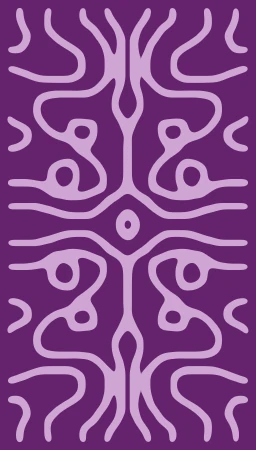
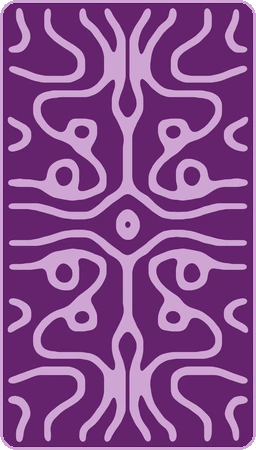
Dos de carte : filet pâle et coins arrondis, dans les deux apps
Le dos redessiné reçoit un filet de la teinte la plus pâle du motif (1 % de
la largeur) qui suit un arrondi de 6,2 %, le reste des coins étant
transparent. Le JPEG ne portant pas d'alpha, dos.jpg devient dos.png :
URL_DOS, les replis onerror de l'album et le README suivent. Le Tarot prend
le même fichier et cesse de rogner le dos en CSS, qui a désormais ses
propres coins.

diff --git a/tarot/templates/album.html b/tarot/templates/album.html
@@ -361,7 +361,7 @@ main{max-width:1180px; margin:0 auto; padding:8px 22px 80px}
         <span class="vignette">
           <span class="etq">{{ c.etiquette }}</span>
           <img loading="lazy" src="{{ c.mini }}?v={{ vstat }}" alt="{{ c.nom }}"
-               onerror="this.onerror=null;this.src='/static/cartes/dos.jpg'">
+               onerror="this.onerror=null;this.src='/static/cartes/dos.png'">
         </span>
         {% else %}
         <span class="vignette venue">
@@ -505,7 +505,7 @@ function afficher(id){
   feuille.classList.toggle("message", message);
   if(c.image){
     mImage.innerHTML = '<img src="' + echappe(c.image) + '?v=' + echappe(VSTAT) + '" alt="' + echappe(c.nom) + '"'
-      + ' onerror="this.onerror=null;this.src=\'/static/cartes/dos.jpg\'">';
+      + ' onerror="this.onerror=null;this.src=\'/static/cartes/dos.png\'">';
   } else if(message){
     mImage.innerHTML = "";
   } else {

diff --git a/templates/album.html b/templates/album.html
@@ -359,7 +359,7 @@ main{max-width:1180px; margin:0 auto; padding:8px 22px 80px}
         <span class="vignette">
           <span class="etq">{{ c.etiquette }}</span>
           <img loading="lazy" src="{{ c.mini }}?v={{ vstat }}" alt="{{ c.nom }}"
-               onerror="this.onerror=null;this.src='/static/cartes/dos.jpg'">
+               onerror="this.onerror=null;this.src='/static/cartes/dos.png'">
         </span>
         {% else %}
         <span class="vignette venue">
@@ -503,7 +503,7 @@ function afficher(id){
   feuille.classList.toggle("message", message);
   if(c.image){
     mImage.innerHTML = '<img src="' + echappe(c.image) + '?v=' + echappe(VSTAT) + '" alt="' + echappe(c.nom) + '"'
-      + ' onerror="this.onerror=null;this.src=\'/static/cartes/dos.jpg\'">';
+      + ' onerror="this.onerror=null;this.src=\'/static/cartes/dos.png\'">';
   } else if(message){
     mImage.innerHTML = "";
   } else {

diff --git a/tarot/static/css/app.css b/tarot/static/css/app.css
@@ -171,6 +171,12 @@ body {
   border-radius: 0;
 }
 
+/* Le dos est un PNG : ses coins arrondis sont déjà dans l'image. On ne le rogne
+   donc pas — sinon le rayon du CSS coupe le vrai bord de la carte. */
+.carte .dos {
+  border-radius: 0;
+}
+
 .carte .dos img,
 .carte .face img {
   width: 100%;

diff --git a/tarot/templates/index.html b/tarot/templates/index.html
@@ -4,7 +4,7 @@
 <meta charset="utf-8">
 <meta name="viewport" content="width=device-width, initial-scale=1">
 <title>Tarot — le tirage</title>
-<link rel="stylesheet" href="css/app.css?v=31">
+<link rel="stylesheet" href="css/app.css?v=32">
 </head>
 <body{% if embed %} class="embed"{% endif %}>
 

diff --git a/moteur/tarot.py b/moteur/tarot.py
@@ -351,7 +351,7 @@ def choisir_personnelle(candidats, vus):
 # correspondance calculée. La voie légitime — les décanats Golden Dawn — est un
 # chantier à part (voir CONCEPTION_MESSAGE_DU_JOUR.md / PROPOSITION.md).
 # ─────────────────────────────────────────────────────────────────────
-URL_DOS = "/static/cartes/dos.jpg"
+URL_DOS = "/static/cartes/dos.png"
 
 
 def url_carte(numero):

diff --git a/static/cartes/mineurs/README.md b/static/cartes/mineurs/README.md
@@ -16,7 +16,7 @@ Exemples : `coupes_as.jpg`, `deniers_7.jpg`, `epees_reine.jpg`.
 Ces 56 clés sont définies dans `moteur/mineurs.py` (`SUIT_NOM`, `RANGS`) —
 c'est la source de vérité. Le front (`urlCarteMineur()` dans
 `templates/index.html`) construit l'URL par cette même convention, avec un
-repli `onerror` sur `/static/cartes/dos.jpg` si un fichier venait à manquer.
+repli `onerror` sur `/static/cartes/dos.png` si un fichier venait à manquer.
 
 `tests/test_mineurs.py::test_images_des_56_mineurs_presentes` vérifie que
 les 56 fichiers sont bien là.
